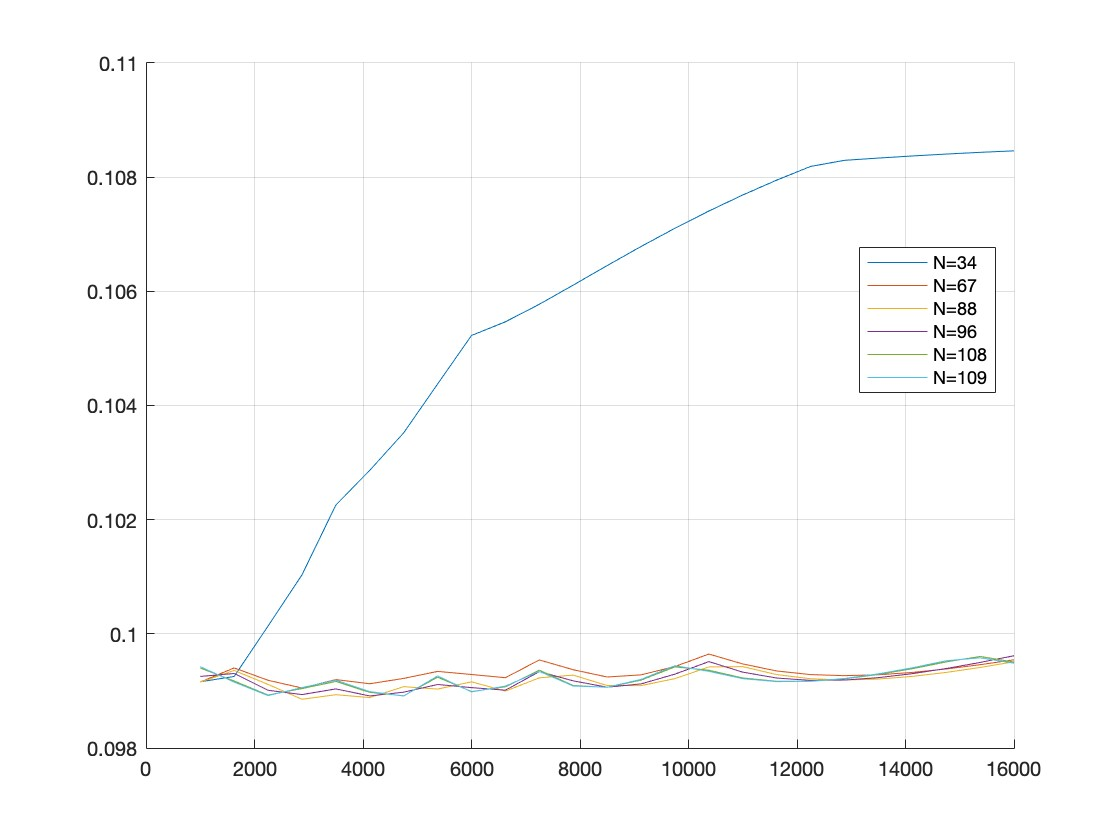
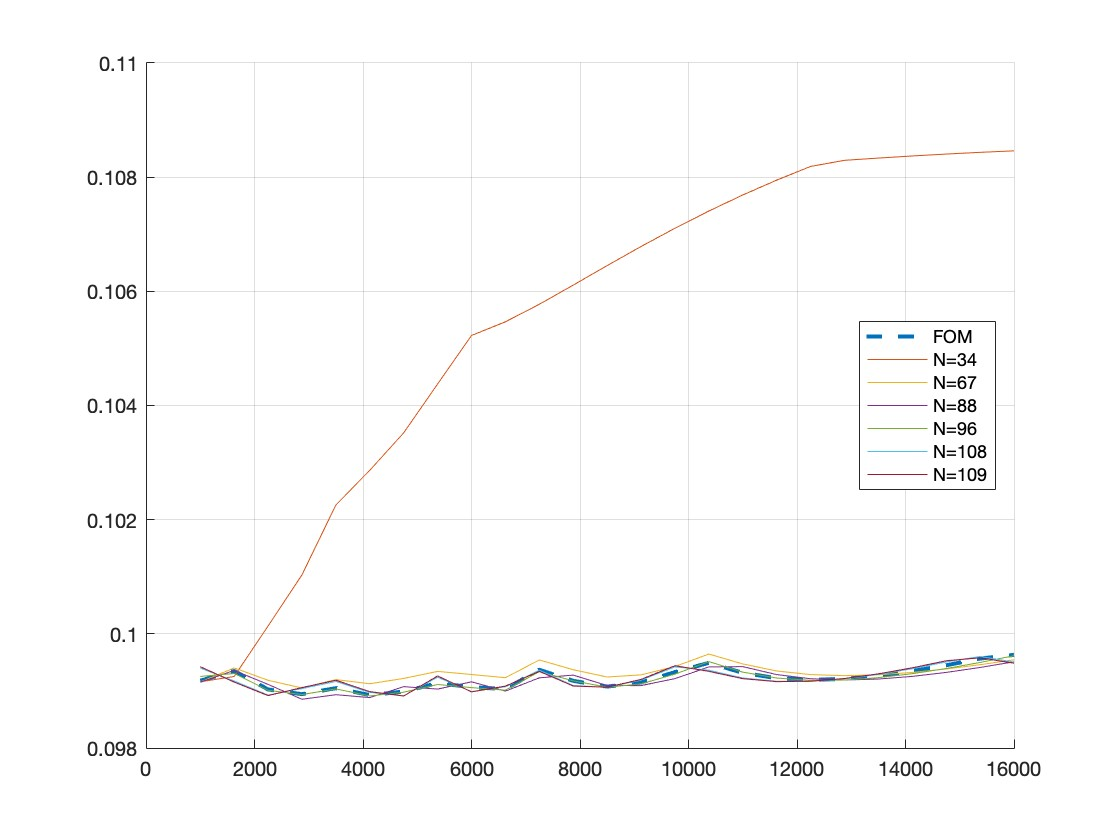
Cálculo del espectro FOM

Changed region(s): [[0.1875, 0.7738, 0.9062, 0.8357], [0.7812, 0.3095, 0.9062, 0.5881]]

diff --git a/Espectro/Smago_2Dper/Offline/RepresentaEspectros.m b/Espectro/Smago_2Dper/Offline/RepresentaEspectros.m
@@ -2,9 +2,13 @@
 
 NN = [34,67,88,96,108,109];
 Re = 1000:625:16000;
-
+addpath 'DataCompletePOD'
 figure()
 hold on
+fID = fopen('EspectroFOM.txt','r');
+vec = fscanf(fID, '%f');
+sp = vec(2:end);
+plot(Re,sp,'--','Linewidth',2)
 grid on
 for i=1:length(NN)
     fID = fopen(['DeltaN_',num2str(NN(i)),'.txt'],'r');
@@ -13,16 +17,19 @@ for i=1:length(NN)
     plot(Re,sp);
 end
 
-legend('N=34','N=67','N=88','N=96','N=108','N=109','location','Best');
+legend('FOM','N=34','N=67','N=88','N=96','N=108','N=109','location','Best');
 
 figure()
+fID = fopen('EspectroFOM.txt','r');
+vec = fscanf(fID, '%f');
+plot(Re,sp,'--','Linewidth',2)
+hold on
 for i=2:length(NN)
     fID = fopen(['DeltaN_',num2str(NN(i)),'.txt'],'r');
     vec = fscanf(fID, '%f');
     sp = vec(2:end); %El primer valor es el tamaño que no interesa, y el segundo vale cero que no lo pinta
     plot(Re,sp);
-    hold on
 end
 
 grid on
-legend('N=67','N=88','N=96','N=108','N=109','location','Best');
+legend('FOM','N=67','N=88','N=96','N=108','N=109','location','Best');
